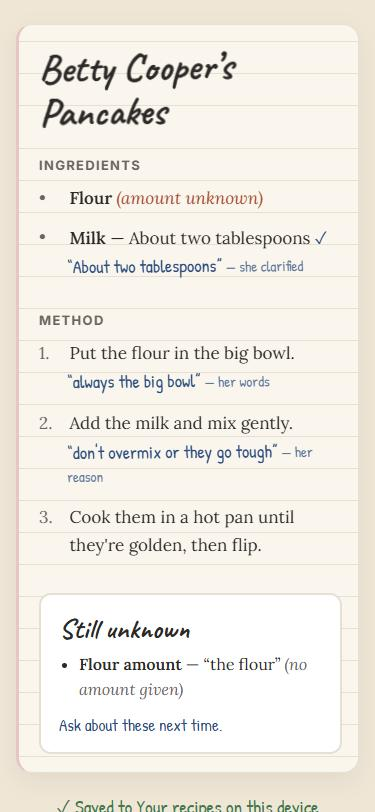
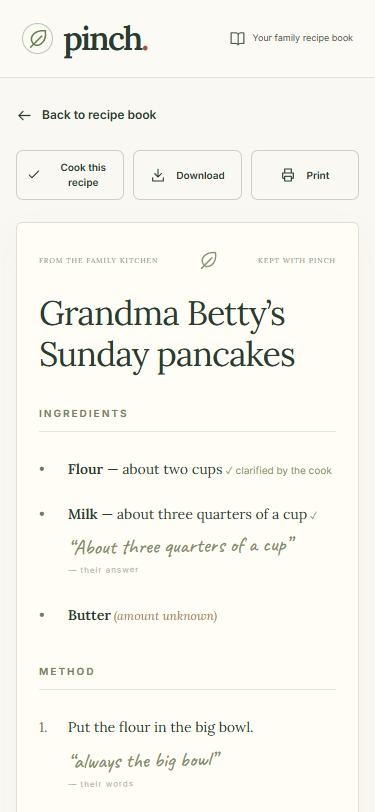
Retake screenshots from a live session; update submission write-up
- Five new phone-size screenshots of the redesigned UI, all from real
  Gemini replies (not the demo)
- Submission write-up covers the recipe book, demo, drafts, notes
  mode, cook-along checklist and download
- Fix dev server restarting mid-request on Windows (watch server/ only)
- '1 detail' / '1 step' singular labels in the recipe book

diff --git a/src/components/RecipeLibrary.jsx b/src/components/RecipeLibrary.jsx
@@ -88,7 +88,7 @@ export default function RecipeLibrary({
                 <div className="recipe-summary">
                   <h3>{r.card.title}</h3>
                   <p>
-                    {r.card.method.length} steps <span>·</span>{' '}
+                    {r.card.method.length} {r.card.method.length === 1 ? 'step' : 'steps'} <span>·</span>{' '}
                     {new Date(r.savedAt).toLocaleDateString(undefined, {
                       month: 'short',
                       day: 'numeric',
@@ -99,7 +99,7 @@ export default function RecipeLibrary({
                     className={`recipe-status ${r.card.stillUnknown.length ? 'pending' : ''}`}
                   >
                     {r.card.stillUnknown.length
-                      ? `${r.card.stillUnknown.length} details to revisit`
+                      ? `${r.card.stillUnknown.length} ${r.card.stillUnknown.length === 1 ? 'detail' : 'details'} to revisit`
                       : 'Every detail kept'}{' '}
                     <Icon name="arrow" size={16} />
                   </span>

diff --git a/devpost/submission.md b/devpost/submission.md
@@ -8,7 +8,7 @@ Everything for the Devpost form, in the order the form asks for it. This is a **
 
 **Pinch**
 
-**Tagline:** Pinch interviews your grandparent while they cook, so "a pinch" and "a splash" get pinned down while their hands are still in the pot.
+**Tagline:** A pinch of this. A lifetime of that. Pinch interviews your grandparent while they cook, so "a pinch" and "a splash" get pinned down while their hands are still in the pot.
 
 ---
 
@@ -24,34 +24,41 @@ Lots of apps already try to save these recipes, and they all work the same way: 
 
 Pinch asks **during** the cooking, not afterwards.
 
-The grandchild holds the phone, and the grandparent just cooks and talks. After each step, Pinch either stays quiet because the step is clear, or asks **one** short follow-up question, out loud and in big text: *"About how much milk should we add?"* The cook answers on the spot, while her hands are still in the bowl.
+The grandchild holds the phone, and the grandparent just cooks and talks. After each step, Pinch either stays quiet because the step is clear, or asks **one** short follow-up question in big text, optionally read aloud: *"About how much milk is a splash?"* The cook answers on the spot, while her hands are still in the bowl.
 
 Pinch follows one rule: **it never guesses an amount.** The AI decides *what to ask*, but it never decides *what the answer is*. Every amount on the final card has to come from the cook's own words. Anything that wasn't pinned down goes on an honest **Still unknown** list to ask about next time. This rule isn't left to the AI. Plain code on the server checks every amount, number and quote on the card against what the cook actually said, and removes anything it can't trace.
 
 ### Key features
 
-- **Step-by-step voice capture.** Tap the mic, the cook describes the step, and Pinch writes down her exact words.
+**In the kitchen**
+- **Step-by-step capture by voice or typing.** Pinch writes down the cook's exact words, with a recording timer and the option to edit and re-check a transcript.
 - **One question at a time.** Pinch asks at most one follow-up per step and three per session, so it never feels like an interrogation while someone is flipping pancakes.
-- **Spoken questions in big text.** You can hear and read them from across the kitchen.
+- **Big, readable questions,** with an optional "read questions aloud" toggle.
 - **Catches mishearings.** If the transcript says "a flash of milk", Pinch asks *"Did you mean a splash of milk?"* instead of silently "fixing" it.
-- **"I don't know" is respected.** It goes straight to Still unknown, with no arguing and no follow-up to a follow-up.
-- **The heirloom recipe card** looks like a page from a family notebook:
+- **"I don't know" and "Skip this question" are respected.** The item goes straight to Still unknown, with no arguing and no follow-up to a follow-up.
+- **Sessions are never lost.** Drafts save automatically on the device, including unsent typed words, so you can leave, refresh, and resume from the home screen.
+- **Keeps working when the AI doesn't.** If one Gemini model is busy, Pinch tries another. If the AI isn't available at all, Pinch switches to *notes mode* and saves the cook's exact words without guessing any ingredients.
+
+**The recipe card**
+- **The heirloom card** keeps three things together:
   - a cookable list of ingredients and method
-  - her verbatim words and reasons ("don't overmix or they go tough") in blue handwriting in the margin
-  - the Still unknown box at the bottom
+  - her verbatim words and reasons ("don't overmix or they go tough")
+  - an honest **Still unknown** box at the bottom
 - **Never-guess check:** server-side code traces every amount on the card back to the cook's words. An invented amount becomes "amount unknown".
-- **Print** gives a clean printable card.
-- **Your recipes:** finished cards are saved on the device to reopen, print again or delete.
-- **Typed fallback** for when the mic isn't available, and it's useful for testing.
-- **Keeps working when the AI is busy.** If one Gemini model is overloaded, Pinch tries another. If Pinch can't be reached at all, the step is saved to Still unknown and the session carries on.
+- **Cook this recipe:** a temporary checklist for cooking along.
+- **Print, or download as plain text,** for a copy that lasts.
+
+**The recipe book**
+- **Your recipe book:** every finished card saves on the device. Search by name, sort newest-first or A–Z, reopen, and remove (with confirmation).
+- **See an example / guided demo:** a clearly labelled sample pancake recipe to try Pinch with no microphone or setup. Sample words are never sent to the AI and never saved into your real recipe book.
 
 ### Technologies used
 
-- **Frontend:** React 19 + Vite, plain JavaScript and CSS (notebook design: Caveat, Patrick Hand, Lora and Inter fonts from Google Fonts)
-- **Backend:** Node.js + Express. It keeps the API key on the server, so it never reaches the phone.
+- **Frontend:** React 19 + Vite, plain JavaScript and CSS (a custom recipe-book design system)
+- **Backend:** Node.js + Express. It keeps the API key on the server, so it never reaches the browser.
 - **AI:** Google Gemini API via the `@google/genai` SDK, with structured JSON output. One call per step transcribes the audio *and* decides "clear, or the one best question". A fallback chain covers busy models (`gemini-3.5-flash` → `gemini-3.8-flash` → `gemini-3.1-flash-lite`).
-- **Browser APIs:** Web Audio (recording 16 kHz WAV in the browser), Web Speech synthesis (reading questions aloud), localStorage (saved recipes)
-- **Testing:** Vitest. There are 22 unit tests on the parts where correctness matters: the never-guess check, the question budget and the recipe library.
+- **Browser APIs:** Web Audio (recording 16 kHz WAV in the browser), Web Speech synthesis (reading questions aloud), localStorage (recipe book and session drafts)
+- **Testing:** Vitest. There are 31 unit tests covering the never-guess check, the question budget, recipe storage, draft recovery, offline answers and demo isolation.
 - **Process:** built with Claude Code using a plan-first workflow. A scope, product requirements doc and technical spec were written and approved before any code (all in the repo's `devpost/` folder).
 
 ### Target users
@@ -68,8 +75,8 @@ My goal going in was to get better at planning before building. Normally I promp
 
 The planning caught real problems early. Researching how voice would work showed that browser speech recognition doesn't work in Chrome on iPhone, so the architecture changed to recording audio and having Gemini transcribe it. That happened before a line of code existed, not in the kitchen. Other things only showed up when the app met the real world:
 - Gemini's free tier was overloaded on the first real request, which led to the model fallback chain.
-- The first UI looked plain, which led to the notebook redesign.
-- I realised I wanted a recipe library, which I had cut from scope earlier.
+- The first UI looked plain, which led to two redesigns.
+- I realised I wanted a recipe book, which I had cut from scope earlier.
 
 The plan didn't stop those changes, but it gave every change a place to go and a record of why.
 
@@ -77,11 +84,13 @@ The plan didn't stop those changes, but it gave every change a place to go and a
 
 ## Project files (upload these)
 
-From the repo's `screenshots/` folder, all captured from a real session with real Gemini replies at phone size:
+From the repo's `screenshots/` folder. Every one comes from a **live session with real Gemini replies**, not the demo, captured at phone size:
 
-1. `01-start-and-your-recipes.jpg`: the start screen, with a saved recipe in Your recipes
-2. `02-pinch-asks.jpg`: Pinch asking "About how much milk should we add?" after the cook said "a splash of milk, not too much"
-3. `03-recipe-card.jpg`: the finished heirloom card: her words and reasons in the margin, and "Flour (amount unknown)" in Still unknown because no amount was ever confirmed
+1. `01-home.jpg`: the recipe-book home: "A pinch of this. A lifetime of that."
+2. `02-pinch-asks.jpg`: the cook said "a splash of milk, not too much", and Pinch asks "About how much milk is a splash?"
+3. `03-recipe-card.jpg`: the finished card: flour and milk amounts "clarified by the cook", her answer quoted, and "Butter (amount unknown)"
+4. `04-still-unknown.jpg`: the method with her reason ("don't overmix or they go tough") and the Still unknown box: "a knob of butter", because she said "I don't know, I just do it by feel"
+5. `05-recipe-book.jpg`: the saved recipe in Your recipe book, with search and sort
 
 Plus your demo video (script below).
 
@@ -105,21 +114,22 @@ Solo: **[your name]**, in every role: product, design, development and testing (
 - **Don't say "tested on iPhone".** It was tested in a mobile-sized browser view on a laptop. Real-phone use needs the HTTPS tunnel in the README, and that hasn't been tried.
 - **Don't quote transcription accuracy numbers.** They weren't measured.
 - **Only claim English.** No other languages were tested.
-- **Don't claim cloud sync or sharing.** Recipes save on one device only.
+- **Don't claim cloud sync, accounts or sharing.** Recipes save on one device only.
+- **Don't present the guided demo as a real session.** It's labelled sample content. The screenshots above are from a real one.
 
 ---
 
 ## Demo video script (1–3 minutes)
 
-**Setup:** run `npm run dev`, then open http://localhost:5173 in Chrome. Press F12, then Ctrl+Shift+M, and pick a phone size such as iPhone 14. Record the screen with **Win + Alt + R** (Xbox Game Bar), or with OBS if you want your face or voice too. Use your real mic, and if a real grandparent can cook on camera, that's the strongest version. Gemini can be slow, so cut out long "Pinch is listening back…" waits when editing.
+**Setup:** run `npm run dev`, then open http://localhost:5173 in Chrome. Press F12, then Ctrl+Shift+M, and pick a phone size such as iPhone 14. Record the screen with **Win + Alt + R** (Xbox Game Bar), or with OBS if you want your face or voice too. Turn **"Read questions aloud" on** so the video has Pinch's voice. If a real grandparent can cook on camera, that's the strongest version. Gemini can be slow, so cut out long "Pinch is listening back…" waits when editing.
 
 | Time | Show | Say (roughly) |
 |---|---|---|
-| 0:00–0:15 | Start screen | "My grandmother never measures anything. It's 'a splash of this', 'cook it till it's ready'. Apps that record her and extract a recipe afterwards keep those vague parts vague, because by then she's left the kitchen." |
-| 0:15–0:25 | Type the dish and cook, tap **Start cooking** | "Pinch asks while she's still cooking." |
-| 0:25–0:45 | Mic: say a clear step, like "Crack two eggs into the bowl" → tick | "When a step is clear, Pinch stays quiet." |
-| 0:45–1:15 | Mic: "Add a splash of milk, not too much" → the big question → answer "About two tablespoons" | "When something's vague, it asks one question, out loud. Her answer is what goes on the card." |
-| 1:15–1:30 | Mic: a step with a vague cue → answer "I don't know, I do it by feel" | "And 'I don't know' is fine. No arguing. It goes on a Still unknown list." |
-| 1:30–2:05 | Tap **Finish** → the card writes itself in | "Her words and reasons in the margin. Every amount came from her. Pinch never invents an amount: code on the server checks every number against what she actually said. And here's what we still need to ask next time." |
-| 2:05–2:20 | Print preview, then back to **Your recipes** | "Print it, and it's saved in Your recipes." |
-| 2:20–2:45 | Optional: show the `devpost/` docs in the repo | "I built this plan-first. Scope, requirements and a technical spec came before any code, which caught things like iPhone Chrome not supporting speech recognition before I'd written a line." |
+| 0:00–0:15 | Home: "A pinch of this. A lifetime of that." | "My grandmother never measures anything. It's 'a splash of this', 'cook it till it's golden'. Apps that record her and extract a recipe afterwards keep those vague parts vague, because by then she's left the kitchen." |
+| 0:15–0:25 | **Capture a family recipe** → enter the dish and cook → **Let's start cooking** | "Pinch asks while she's still cooking." |
+| 0:25–0:45 | Mic: a clear step, like "Crack two eggs into the bowl" → tick | "When a step is clear, Pinch stays quiet." |
+| 0:45–1:15 | Mic: "Add a splash of milk, not too much" → the big question, read aloud → answer "About three quarters of a cup" | "When something's vague, it asks one question. Her answer is what goes on the card." |
+| 1:15–1:30 | Mic: "Melt a knob of butter…" → answer "I don't know, I do it by feel" | "And 'I don't know' is fine. No arguing. It goes on a Still unknown list." |
+| 1:30–2:05 | **Create recipe card** → the card | "Her words and reasons, right on the card. Every amount came from her. Pinch never invents an amount: code on the server checks every number against what she actually said. And here's what we still need to ask next time." |
+| 2:05–2:25 | **Cook this recipe** checklist, then **Back to recipe book** | "Cook along with it, print it or download it, and it lives in the family recipe book." |
+| 2:25–2:45 | Optional: the `devpost/` docs in the repo | "I built this plan-first. Scope, requirements and a technical spec came before any code, which caught things like iPhone Chrome not supporting speech recognition before I'd written a line." |
